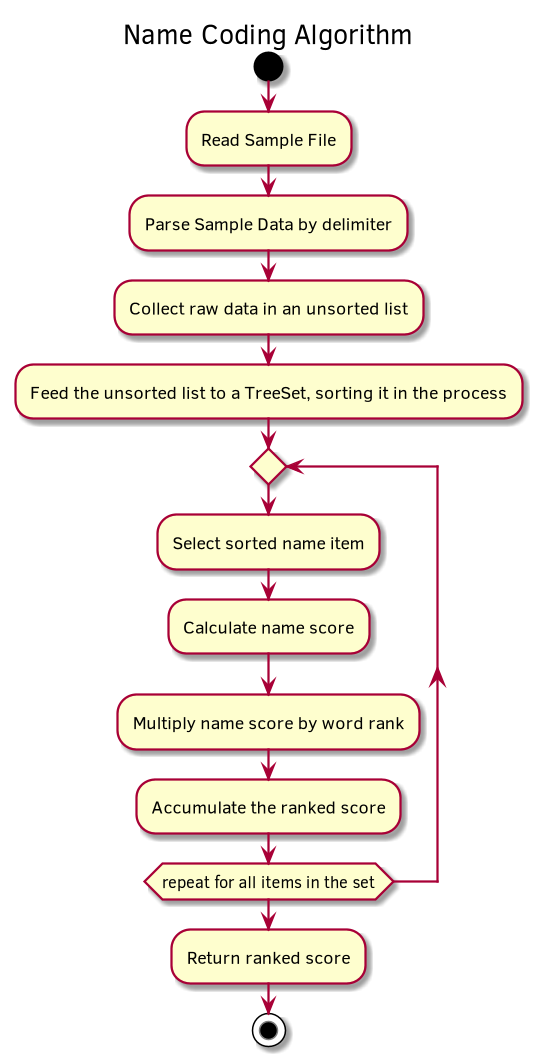
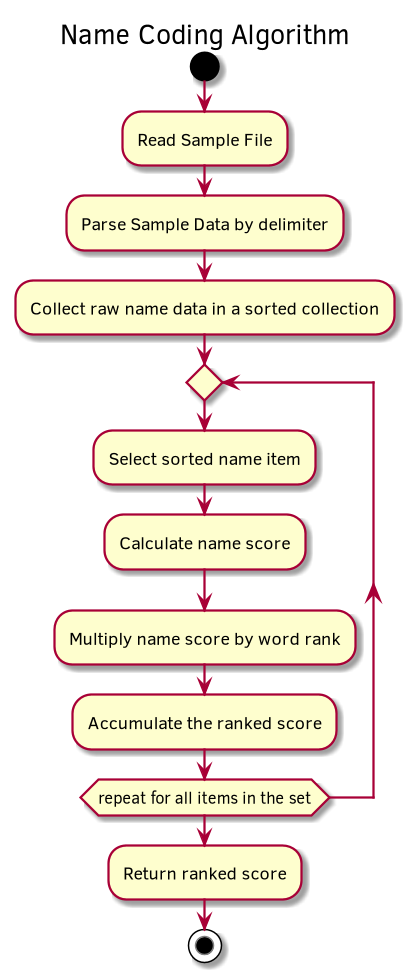
optimizations

diff --git a/name-coding-lib/src/test/java/com/vgb/namecoding/service/ReaderServiceTest.java b/name-coding-lib/src/test/java/com/vgb/namecoding/service/ReaderServiceTest.java
@@ -10,7 +10,7 @@ import org.springframework.test.context.junit4.SpringJUnit4ClassRunner;
 import org.springframework.test.context.support.AnnotationConfigContextLoader;
 
 import java.nio.file.NoSuchFileException;
-import java.util.List;
+import java.util.Collection;
 
 @RunWith(SpringJUnit4ClassRunner.class)
 @ContextConfiguration(classes = TestConfiguration.class, loader = AnnotationConfigContextLoader.class)
@@ -21,22 +21,22 @@ public class ReaderServiceTest {
 
     @Test
     public void readData() throws Exception {
-        final List<String> names = readerService.read(TestUtils.getResourceFile("sample.txt").toURI().toURL());
+        final Collection<String> names = readerService.read(TestUtils.getResourceFile("sample.txt").toURI().toURL());
         Assert.assertEquals(9, names.size());
-        Assert.assertArrayEquals(new String[]{"MARY", "PATRICIA", "LINDA", "BARBARA", "VINCENZO", "SHON", "LYNWOOD", "JERE", "HAI"}, names.toArray());
+        Assert.assertArrayEquals(new String[]{"BARBARA", "HAI", "JERE", "LINDA", "LYNWOOD", "MARY", "PATRICIA", "SHON", "VINCENZO"}, names.toArray());
     }
 
     @Test
     public void readLargeData() throws Exception {
-        final List<String> names = readerService.read(TestUtils.getResourceFile("sample-large.txt").toURI().toURL());
+        final Collection<String> names = readerService.read(TestUtils.getResourceFile("sample-large.txt").toURI().toURL());
         Assert.assertEquals(5163, names.size());
     }
 
     @Test
     public void readSloppyData() throws Exception {
-        final List<String> names = readerService.read(TestUtils.getResourceFile("sample-sloppy.txt").toURI().toURL());
+        final Collection<String> names = readerService.read(TestUtils.getResourceFile("sample-sloppy.txt").toURI().toURL());
         Assert.assertEquals(9, names.size());
-        Assert.assertArrayEquals(new String[]{"MARY", "PATRICIA", "LINDA", "BARBARA", "VINCENZO", "SHON", "LYNWOOD", "JERE", "HAI"}, names.toArray());
+        Assert.assertArrayEquals(new String[]{"BARBARA", "HAI", "JERE", "LINDA", "LYNWOOD", "MARY", "PATRICIA", "SHON", "VINCENZO"}, names.toArray());
     }
 
 

diff --git a/name-coding-lib/src/test/java/com/vgb/namecoding/service/TestConfiguration.java b/name-coding-lib/src/test/java/com/vgb/namecoding/service/TestConfiguration.java
@@ -2,12 +2,14 @@ package com.vgb.namecoding.service;
 
 import com.vgb.namecoding.service.cumulativescore.FileScoreService;
 import com.vgb.namecoding.service.cumulativescore.RankedFileScoreService;
-import com.vgb.namecoding.service.reader.DelimitedReaderService;
+import com.vgb.namecoding.service.reader.DelimitedSortingReaderService;
 import com.vgb.namecoding.service.reader.ReaderService;
 import com.vgb.namecoding.service.scoring.FirstNameScoringService;
 import com.vgb.namecoding.service.scoring.NameScoringService;
+import com.vgb.namecoding.service.sorting.PassThroughSortingService;
 import com.vgb.namecoding.service.sorting.SortingService;
 import com.vgb.namecoding.service.sorting.TreeSetSortingService;
+import org.springframework.beans.factory.annotation.Qualifier;
 import org.springframework.context.annotation.Bean;
 import org.springframework.context.annotation.Configuration;
 
@@ -26,11 +28,16 @@ public class TestConfiguration {
 
     @Bean
     public ReaderService readerService(Pattern pattern) {
-        return new DelimitedReaderService(pattern);
+        return new DelimitedSortingReaderService(pattern);
     }
 
-    @Bean
-    public SortingService<String> sortingService() {
+    @Bean("passThroughSortingService")
+    public SortingService<String> passThroughSortingService() {
+        return new PassThroughSortingService();
+    }
+
+    @Bean("treeSetSortingService")
+    public SortingService<String> treeSetSortingService() {
         return new TreeSetSortingService();
     }
 
@@ -40,7 +47,7 @@ public class TestConfiguration {
     }
 
     @Bean
-    public FileScoreService cumulativeScoreService(ReaderService readerService, SortingService<String> sortingService, NameScoringService nameScoringService) {
+    public FileScoreService cumulativeScoreService(ReaderService readerService, @Qualifier("passThroughSortingService") SortingService<String> sortingService, NameScoringService nameScoringService) {
         return new RankedFileScoreService(readerService, sortingService,  nameScoringService);
     }
 

diff --git a/name-coding-lib/src/main/java/com/vgb/namecoding/service/reader/DelimitedSortingReaderService.java b/name-coding-lib/src/main/java/com/vgb/namecoding/service/reader/DelimitedSortingReaderService.java
@@ -6,16 +6,18 @@ import java.net.URL;
 import java.nio.file.Files;
 import java.nio.file.Paths;
 import java.util.Arrays;
-import java.util.List;
+import java.util.Collection;
+import java.util.TreeSet;
 import java.util.regex.Pattern;
+import java.util.stream.Collector;
 import java.util.stream.Collectors;
 
 
 /**
- * Reads information from a file, splits based on a configuratble pattern
- * and the outputs an unsorted collection
+ * Reads information from a file, splits based on a configurable pattern
+ * and the outputs a sorted collection
  */
-public class DelimitedReaderService implements ReaderService {
+public class DelimitedSortingReaderService implements ReaderService {
 
     private Pattern pattern;
 
@@ -24,21 +26,22 @@ public class DelimitedReaderService implements ReaderService {
      * Constructor
      * @param pattern delimiter pattern
      */
-    public DelimitedReaderService(Pattern pattern) {
+    public DelimitedSortingReaderService(Pattern pattern) {
         this.pattern = pattern;
     }
 
     @Override
-    public List<String> read(URL url) throws IOException, URISyntaxException {
+    public Collection<String> read(URL url) throws IOException, URISyntaxException {
         //read file into a single line String
         final String nameString = Files.readString(Paths.get(url.toURI()));
-
+        //define a collector backed by a sorted data structure
+        final Collector<String, ?, Collection<String>> nameSetCollector = Collectors.toCollection(TreeSet::new);
         //transform the line of text into a list of names using the pattern
         return Arrays.stream(pattern.split(nameString)).parallel().map(s1 -> {
             //trim outside the quotes and inside the quotes too
             final String t1 = s1.trim();
             return t1.substring(1, t1.length() - 1).trim();
-        }).filter(s -> !s.trim().isEmpty()).collect(Collectors.toList());
+        }).filter(s -> !s.trim().isEmpty()).collect(nameSetCollector);
     }
 
 }

diff --git a/name-coding-cli/src/test/java/com/vgb/namecoding/cli/AppConfigurationTest.java b/name-coding-cli/src/test/java/com/vgb/namecoding/cli/AppConfigurationTest.java
@@ -1,6 +1,6 @@
 package com.vgb.namecoding.cli;
 
-import com.vgb.namecoding.service.reader.DelimitedReaderService;
+import com.vgb.namecoding.service.reader.DelimitedSortingReaderService;
 import com.vgb.namecoding.service.scoring.FirstNameScoringService;
 import org.junit.Assert;
 import org.junit.Test;
@@ -11,28 +11,28 @@ public class AppConfigurationTest {
     AppConfiguration appConfiguration = new AppConfiguration();
 
     @Test
-    public void testNameSplitterPattern() throws Exception {
+    public void testNameSplitterPattern()  {
         Pattern result = appConfiguration.nameSplitterPattern();
         Assert.assertArrayEquals(new String[] {"a","b", "cd"}, result.split("a,b,cd"));
     }
 
     @Test
-    public void testReaderService() throws Exception {
+    public void testReaderService()  {
         Assert.assertNotNull(appConfiguration.readerService(null));
     }
 
     @Test
-    public void testSortingService() throws Exception {
+    public void testSortingService()  {
         Assert.assertNotNull(appConfiguration.sortingService());
     }
 
     @Test
-    public void testNameScoringService() throws Exception {
+    public void testNameScoringService()  {
         Assert.assertNotNull(appConfiguration.nameScoringService());
     }
 
     @Test
-    public void testCumulativeScoreService() throws Exception {
-        Assert.assertNotNull(appConfiguration.cumulativeScoreService(new DelimitedReaderService(null), null, new FirstNameScoringService()));
+    public void testCumulativeScoreService()  {
+        Assert.assertNotNull(appConfiguration.cumulativeScoreService(new DelimitedSortingReaderService(null), null, new FirstNameScoringService()));
     }
 }

diff --git a/name-coding-lib/src/test/java/com/vgb/namecoding/service/NoOpSortingServiceTest.java b/name-coding-lib/src/test/java/com/vgb/namecoding/service/NoOpSortingServiceTest.java
@@ -5,6 +5,7 @@ import org.junit.Assert;
 import org.junit.Test;
 import org.junit.runner.RunWith;
 import org.springframework.beans.factory.annotation.Autowired;
+import org.springframework.beans.factory.annotation.Qualifier;
 import org.springframework.test.context.ContextConfiguration;
 import org.springframework.test.context.junit4.SpringJUnit4ClassRunner;
 import org.springframework.test.context.support.AnnotationConfigContextLoader;
@@ -16,16 +17,17 @@ import java.util.List;
 
 @RunWith(SpringJUnit4ClassRunner.class)
 @ContextConfiguration(classes = TestConfiguration.class, loader = AnnotationConfigContextLoader.class)
-public class SortingServiceTest {
+public class NoOpSortingServiceTest {
 
     @Autowired
+    @Qualifier("passThroughSortingService")
     private SortingService<String> sortingService;
 
     @Test
     public void testSorting() {
         final List<String> unsorted = Arrays.asList("MARY", "PATRICIA", "LINDA", "BARBARA", "VINCENZO", "SHON", "LYNWOOD", "JERE", "HAI");
         final Collection<String> sorted = new ArrayList<>(sortingService.sort(unsorted));
-        Assert.assertArrayEquals(new String[]{"BARBARA", "HAI", "JERE", "LINDA", "LYNWOOD", "MARY", "PATRICIA", "SHON", "VINCENZO"}, sorted.toArray());
+        Assert.assertArrayEquals(new String[]{"MARY", "PATRICIA", "LINDA", "BARBARA", "VINCENZO", "SHON", "LYNWOOD", "JERE", "HAI"}, sorted.toArray());
     }
 
 }

diff --git a/name-coding-lib/src/test/java/com/vgb/namecoding/service/TreeSetSortingServiceTest.java b/name-coding-lib/src/test/java/com/vgb/namecoding/service/TreeSetSortingServiceTest.java
@@ -1,0 +1,33 @@
+package com.vgb.namecoding.service;
+
+import com.vgb.namecoding.service.sorting.SortingService;
+import org.junit.Assert;
+import org.junit.Test;
+import org.junit.runner.RunWith;
+import org.springframework.beans.factory.annotation.Autowired;
+import org.springframework.beans.factory.annotation.Qualifier;
+import org.springframework.test.context.ContextConfiguration;
+import org.springframework.test.context.junit4.SpringJUnit4ClassRunner;
+import org.springframework.test.context.support.AnnotationConfigContextLoader;
+
+import java.util.ArrayList;
+import java.util.Arrays;
+import java.util.Collection;
+import java.util.List;
+
+@RunWith(SpringJUnit4ClassRunner.class)
+@ContextConfiguration(classes = TestConfiguration.class, loader = AnnotationConfigContextLoader.class)
+public class TreeSetSortingServiceTest {
+
+    @Autowired
+    @Qualifier("treeSetSortingService")
+    private SortingService<String> sortingService;
+
+    @Test
+    public void testSorting() {
+        final List<String> unsorted = Arrays.asList("MARY", "PATRICIA", "LINDA", "BARBARA", "VINCENZO", "SHON", "LYNWOOD", "JERE", "HAI");
+        final Collection<String> sorted = new ArrayList<>(sortingService.sort(unsorted));
+        Assert.assertArrayEquals(new String[]{"BARBARA", "HAI", "JERE", "LINDA", "LYNWOOD", "MARY", "PATRICIA", "SHON", "VINCENZO"}, sorted.toArray());
+    }
+
+}

diff --git a/name-coding-cli/src/main/java/com/vgb/namecoding/cli/AppConfiguration.java b/name-coding-cli/src/main/java/com/vgb/namecoding/cli/AppConfiguration.java
@@ -2,12 +2,12 @@ package com.vgb.namecoding.cli;
 
 import com.vgb.namecoding.service.cumulativescore.FileScoreService;
 import com.vgb.namecoding.service.cumulativescore.RankedFileScoreService;
-import com.vgb.namecoding.service.reader.DelimitedReaderService;
+import com.vgb.namecoding.service.reader.DelimitedSortingReaderService;
 import com.vgb.namecoding.service.reader.ReaderService;
 import com.vgb.namecoding.service.scoring.FirstNameScoringService;
 import com.vgb.namecoding.service.scoring.NameScoringService;
+import com.vgb.namecoding.service.sorting.PassThroughSortingService;
 import com.vgb.namecoding.service.sorting.SortingService;
-import com.vgb.namecoding.service.sorting.TreeSetSortingService;
 import org.springframework.context.annotation.Bean;
 import org.springframework.context.annotation.Configuration;
 
@@ -26,12 +26,12 @@ public class AppConfiguration {
 
     @Bean
     public ReaderService readerService(Pattern pattern) {
-        return new DelimitedReaderService(pattern);
+        return new DelimitedSortingReaderService(pattern);
     }
 
     @Bean
     public SortingService<String> sortingService() {
-        return new TreeSetSortingService();
+        return new PassThroughSortingService();
     }
 
     @Bean

diff --git a/name-coding-lib/src/main/java/com/vgb/namecoding/service/sorting/PassThroughSortingService.java b/name-coding-lib/src/main/java/com/vgb/namecoding/service/sorting/PassThroughSortingService.java
@@ -1,0 +1,19 @@
+package com.vgb.namecoding.service.sorting;
+
+import java.util.Collection;
+
+/**
+ * This implementation of the sorting-service is a NO-OP. It is basically
+ * a placeholder in the processing pipeline that allows us to substitute a valid
+ * custom sorter if desired. It is intended to be used when the input is already
+ * pre-sorted
+ * NOTE: Sorting is now possible when data is read via the @{@link com.vgb.namecoding.service.reader.ReaderService},
+ * so no need to
+ * use extra CPU cycles or memory to re-sort it
+ */
+public class PassThroughSortingService implements SortingService<String> {
+    @Override
+    public Collection<String> sort(Collection<String> unsortedCollection) {
+        return unsortedCollection;
+    }
+}

diff --git a/name-coding-lib/src/main/java/com/vgb/namecoding/service/reader/ReaderService.java b/name-coding-lib/src/main/java/com/vgb/namecoding/service/reader/ReaderService.java
@@ -3,13 +3,12 @@ package com.vgb.namecoding.service.reader;
 import java.io.IOException;
 import java.net.URISyntaxException;
 import java.net.URL;
-import java.util.List;
+import java.util.Collection;
 
 /**
  * Reads name information from a url and returns a list of names
  */
 public interface ReaderService {
-
     /**
      * Reads information from a url
      * @param url url address
@@ -17,5 +16,5 @@ public interface ReaderService {
      * @throws IOException if exception encountered
      * @throws URISyntaxException if exception encountered
      */
-    List<String> read(URL url) throws IOException, URISyntaxException;
+    Collection<String> read(URL url) throws IOException, URISyntaxException;
 }

diff --git a/name-coding-lib/src/main/java/com/vgb/namecoding/service/cumulativescore/RankedFileScoreService.java b/name-coding-lib/src/main/java/com/vgb/namecoding/service/cumulativescore/RankedFileScoreService.java
@@ -6,13 +6,14 @@ import com.vgb.namecoding.service.sorting.SortingService;
 
 import java.net.URL;
 import java.util.concurrent.atomic.AtomicLong;
+import java.util.logging.Logger;
 
 /**
  * This implementation of @{@link FileScoreService} works by multiplying the rank of
  * a name with the score of the name itself
  */
 public class RankedFileScoreService implements FileScoreService {
-
+    final Logger logger = Logger.getLogger(this.getClass().getName());
 
     private ReaderService readerService;
 

diff --git a/name-coding-lib/src/main/java/com/vgb/namecoding/service/sorting/TreeSetSortingService.java b/name-coding-lib/src/main/java/com/vgb/namecoding/service/sorting/TreeSetSortingService.java
@@ -5,7 +5,8 @@ import java.util.Collections;
 import java.util.TreeSet;
 
 /**
- * A @{@link java.util.TreeSet} backed implementation of @{@link SortingService}
+ * A @{@link java.util.TreeSet} backed implementation of @{@link SortingService}. This is not needed if the input is
+ * pre-sorted. In such a situation, use @{@link PassThroughSortingService}
  */
 public class TreeSetSortingService implements SortingService<String> {
     @Override
